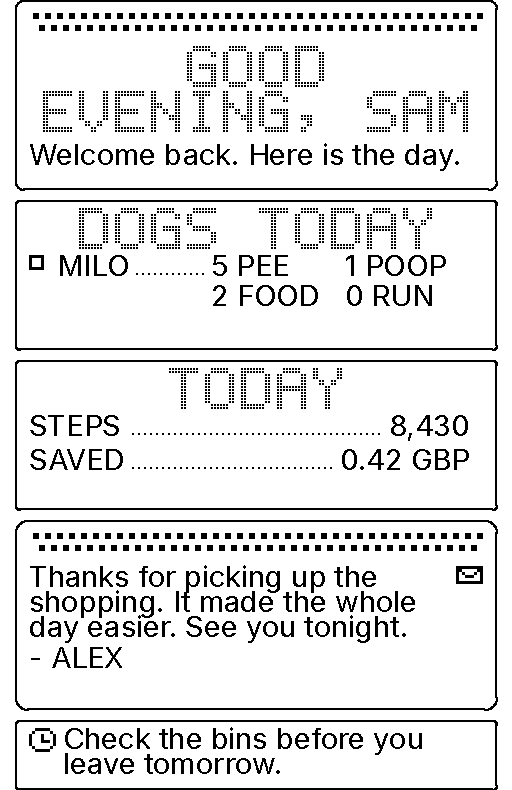
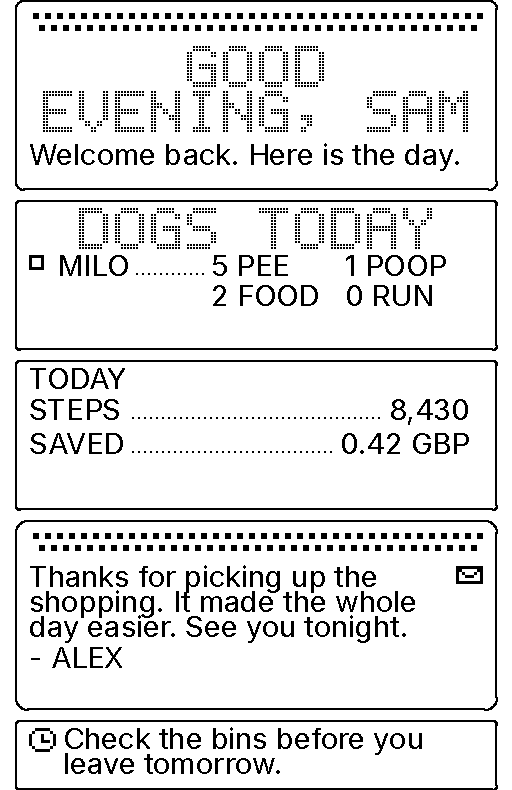
Use the solid label size for graph and table tile titles
Graph tiles (HOME TEMPERATURE, OUTSIDE 24 H) and table tiles (ENERGY AND HOUSE)
now title in the solid label font at the metric label size, the same as STEPS and
STRESS, so the tiles read as one set and a long title fits on one line. The dot
matrix stays on the greeting and the other headline blocks.

Conformance table and tests updated; README sample strips regenerated.

Claude-Session: https://claude.ai/code/session_01MypsYqKmuGtY1gPbDQnduF

diff --git a/app/render/strips.py b/app/render/strips.py
@@ -707,10 +707,22 @@ def _span(s: Mapping[str, Any]) -> str:
     return str(s.get("range") or "24H").strip().upper()
 
 
+def _solid_title(c: Canvas, x0: int, x1: int, text: str) -> None:
+    """A tile's title in the solid label font, the same size as the metric labels (STEPS, STRESS), so the tiles read
+    as one set. It wraps inside the tile, left-aligned like the labels, never in the dot matrix."""
+    label = _label(text)
+    cap = 21 if all(solid_width(word, 21) <= x1 - x0 for word in label.split()) else AXIS_CAP
+    step = _label_step(cap)
+    for line in solid_wrap(label, x1 - x0, cap) or [""]:
+        c.solid(x0, c.y, line, cap)
+        c.y += step
+    c.y += 6  # the first row keeps clear of the title above it
+
+
 def _metric_rows(card: Card, s: Mapping[str, Any], x0: int, x1: int) -> None:
     c = card.c
     if s.get("title"):
-        _heading(c, x0, _label(s["title"]), x1)
+        _solid_title(c, x0, x1, s["title"])
     rows = list(s.get("rows", []))[:12]
     labels = []
     for r in rows:
@@ -738,7 +750,7 @@ def _time_axis(c: Canvas, x0: int, x1: int, span: str) -> None:
 
 def _graph(card: Card, s: Mapping[str, Any], x0: int, x1: int) -> None:
     c = card.c
-    _heading(c, x0, _label(s.get("title", "")), x1)
+    _solid_title(c, x0, x1, s.get("title", ""))
     series = list(s.get("series", []))
     if len(series) > 1:
         unit = f" {s['unit']}" if s.get("unit") else ""

diff --git a/tests/test_tile_spacing.py b/tests/test_tile_spacing.py
@@ -94,3 +94,16 @@ def test_chart_labels_line_up_with_the_plot(monkeypatch):
     # the scale labels clear the title, and the axis labels clear the plot
     plot_top = high[1] + AXIS_CAP + 8
     assert axis[1] == plot_top + card.plot_h + 8
+
+
+def test_graph_and_table_titles_use_the_solid_label_size(monkeypatch):
+    texts = record(monkeypatch, "text")
+    solids = record(monkeypatch, "solid")
+    c, card = card_canvas()
+    strips._graph(card, {"title": "Home temperature", "series": [16.8, 20.5, 18.0], "unit": "C"}, 15, 497)
+    title = next(args for args in solids if args[2] == "HOME TEMPERATURE")
+    assert title[3] == 21  # the metric label size, as STEPS and STRESS
+    assert not any(args[0] == 15 and args[1] == 0 for args in texts)  # no dot-matrix title at the top
+    strips._metric_rows(card, {"title": "Energy and house", "rows": [{"label": "ENERGY NOW", "value": "0.079"}]}, 15, 497)
+    rows_title = next(args for args in solids if args[2] == "ENERGY AND HOUSE")
+    assert rows_title[3] == 21

diff --git a/docs/design/conformance.md b/docs/design/conformance.md
@@ -8,7 +8,8 @@ The arena and lab results that drove the choices are in the design folder. The c
 
 | Role | Font | Where |
 |---|---|---|
-| Titles and headlines | 5x7 dot matrix, centred | native glyph table in `app/render/glyphs.py` (no file) |
+| Titles and headlines | 5x7 dot matrix, centred, on the greeting, dog counts and other headline blocks | native glyph table in `app/render/glyphs.py` (no file) |
+| Tile titles on graphs and tables | solid label size (21), left-aligned, the same as the STEPS and STRESS labels | `_solid_title` in `app/render/strips.py` |
 | Body, labels, numbers | 5x7 solid, body scale 3 (cap 21 dots) | `BODY = 3` in `app/render/strips.py` |
 | Captions | scale 2 (cap 14 dots), the minimum | `CAPTION = 2` |
 
